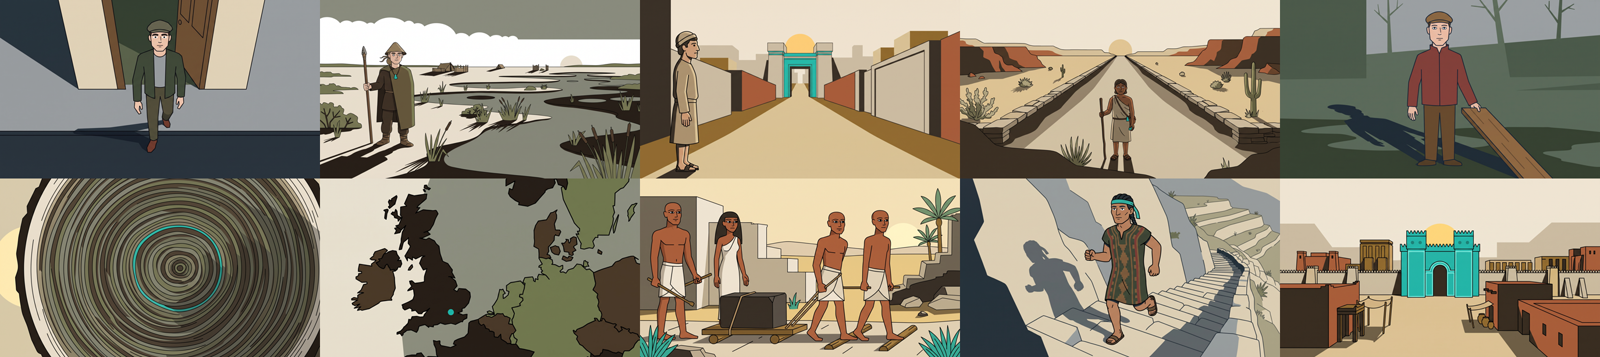
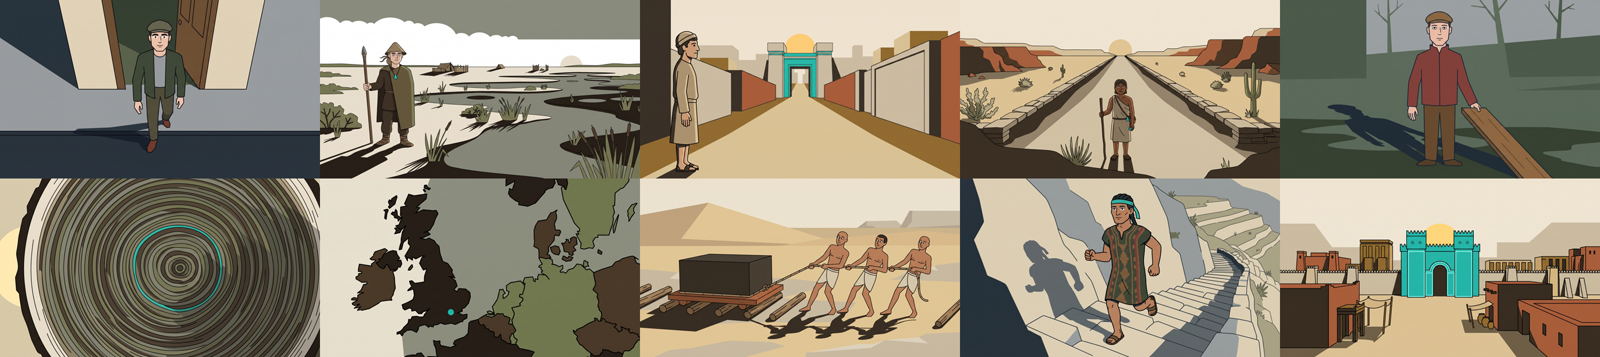
M49 bestanden: alle zehn Pruefbilder sitzen
2 Credits, Kontostand 2.839,9 -> 2.837,9. Gesamt Video 1: 42 Credits.

Zwei Aenderungen an M49: Figurenzahl hart gesetzt und der Szenentext um ein
ausdrueckliches Pflanzenverbot ergaenzt. Dazu traegt M49 als einziges Motiv
KEIN_SIGNAL - die Tuerkisregel erlaubt Abwesenheit, aber ohne den Satz sucht
sich das Modell einen Traeger, und das waren hier die Pflanzen am Bildrand.

Ergebnis: genau drei Maenner am selben Seil, keine vierte Person, kein Rad,
kein Tuerkis, keine Pflanzen, alle drei vollstaendig im Bild, harte
gerichtete Schlagschatten.

Damit sind alle zehn Pruefbilder bestanden. M06 und M62 laufen nach der
Vorabentscheidung mit normaler Figurengroesse, weil die Groessenregel in drei
Formulierungen nicht gegriffen hat.

Claude-Session: https://claude.ai/code/session_01JzJDASz3JXAUBk8mVVVkBz

Changed region(s): [[0.375, 0.5238, 0.625, 1.0]]

diff --git a/produktion/video-01/bildplan.py b/produktion/video-01/bildplan.py
@@ -116,6 +116,13 @@ SIGNAL = (" SIGNAL COLOUR: exactly ONE object in the image carries the turquoise
           "vegetation, edges or borders. If no single object needs marking, the "
           "turquoise is absent from the picture entirely.")
 
+# Motive ohne Signalfarbtraeger: hier ist Tuerkis ganz abwesend. Die Regel
+# erlaubt das ausdruecklich ("if no single object needs marking"), aber das
+# Modell sucht sich sonst einen Traeger - in M49 mehrere Pflanzen am Bildrand.
+OHNE_SIGNAL = {"M49"}
+KEIN_SIGNAL = (" SIGNAL COLOUR: this picture contains no turquoise at all - "
+               "nothing in it carries the signal colour.")
+
 # --------------------------------------------------- Figur des Erzaehlstrangs -
 # Korrektur 4: Die Hand war in M72 als gespreizte Klaue geraten. Der
 # Machart-Block sagt "a hint of finger separation"; das reicht offenbar nicht.
@@ -376,7 +383,7 @@ SZENE_EN = {
  "M46": "the quarry in section: dark basalt benches with tool marks, the road beginning in front of them",
  "M47": "close to the ground: paving of basalt lumps, limestone and sandstone, and between them slabs of petrified wood with visible grain",
  "M48": "a hand runs across a slab of petrified wood, the grain lying exposed",
- "M49": "three haulers in a line drag a heavy dark basalt block down the road on a flat wooden sledge with no wheels of any kind, the sledge sliding forward over loose wooden rollers laid across its path, all three haulers complete and well inside the frame",
+ "M49": "exactly three men and no one else drag a heavy dark basalt block down the road on a flat wooden sledge with no wheels of any kind, the sledge sliding forward over loose wooden rollers laid across its path; all three pull on the same rope, all three are complete and well inside the frame, and there is no fourth person anywhere in the picture; bare open desert road, no plants, no shrubs, no palms and no grass",
  "M50": "a loaded barge with dark blocks on wide water, a pyramid construction site with ramps on the horizon",
  "M51": "the finished dark temple floor of basalt slabs, strictly gridded",
  "M52": "a relief wall seen frontally: lions, bulls and dragons as flat figures in rows",
@@ -465,7 +472,8 @@ def prompt(mid: str, m: dict) -> str:
         p += Z3_AUSSERHALB.format(quelle=LICHT[mid])
     else:
         p += Z3_SICHTBAR.format(quelle=LICHT[mid])
-    p += f" PALETTE: the picture uses only these colours - {PALETTEN[PALETTE[mid]]}." + SIGNAL
+    p += f" PALETTE: the picture uses only these colours - {PALETTEN[PALETTE[mid]]}."
+    p += KEIN_SIGNAL if mid in OHNE_SIGNAL else SIGNAL
     epoche = None if mid in ZEITLOS else (
         EPOCHE_JE_MOTIV.get(mid) or EPOCHE_EN.get(m["epoche"].strip()))
     if epoche:

diff --git a/produktion/video-01/bilder/README.md b/produktion/video-01/bilder/README.md
@@ -274,3 +274,37 @@ Offen bleiben zwei Punkte:
 ## Stand
 
 **Neun von zehn sitzen.** Offen ist allein **M49**.
+
+---
+
+# M49, dritter Nachlauf — bestanden
+
+**2 Credits.** Kontostand 2.839,9 → **2.837,9**. Gesamt Video 1: **42 Credits**.
+
+Zwei Änderungen: die Figurenzahl hart gesetzt („exactly three men and no one
+else … there is no fourth person anywhere in the picture") und der
+Szenentext um „bare open desert road, no plants, no shrubs, no palms and no
+grass" ergänzt. Dazu trägt M49 als einziges Motiv jetzt `KEIN_SIGNAL` —
+die Türkisregel erlaubt Abwesenheit ausdrücklich, aber ohne den Satz sucht
+sich das Modell einen Träger, und in diesem Bild waren das die Pflanzen.
+
+| Prüfpunkt | Ergebnis |
+|---|---|
+| Figurenzahl | **genau drei**, alle am selben Seil, keine vierte Person |
+| Räder | **keine** — flacher Holzschlitten auf losen Rundhölzern |
+| Türkis | **abwesend**, wie vorgegeben |
+| Anschnitt | alle drei vollständig im Bild |
+| Brauen · Hände · Text | ✓ · ✓ · kein Text |
+| Schlagschatten | hart, einheitlich nach links, auch unter dem Block |
+| Epoche | Altes Reich — Schendyt, rasierte Köpfe, Pyramiden im Hintergrund |
+
+## Stand: alle zehn sitzen
+
+| Motiv | Fassung | Anmerkung |
+|---|---|---|
+| M01 · M55 · M12 · M25 · M53 | v1 | seit dem ersten Lauf unverändert bestanden |
+| M06 · M62 | v3 | Figurengröße nach Vorabentscheidung als normal hingenommen |
+| M72 · M84 | v3 | vollständig bestanden |
+| M49 | v4 | vollständig bestanden |
+
+Die früheren Fassungen liegen in `_v1/`, `_v2/` und `_v3/`.
